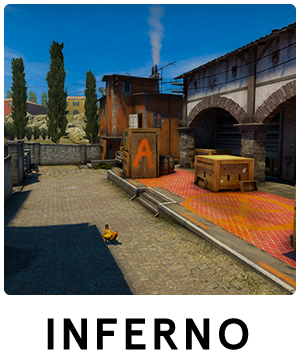
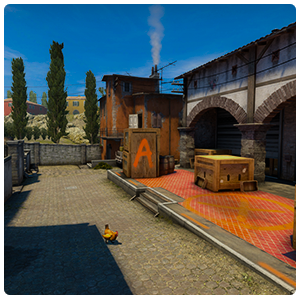
BOOOOOP

diff --git a/Homepage/home.css b/Homepage/home.css
@@ -8,10 +8,13 @@ main{
     height: 100%;
     margin-left: auto;
     margin-right: auto;
+    display: flex;
+    flex-direction: column;
+    align-items: center;
 }
 .container-upper{
     width: 100%;
-    height: 47%;
+    height: 42%;
 }
 
 .container-upper p{
@@ -43,7 +46,7 @@ main{
 .bread-text-right{
     position: absolute;
     left: 67%;
-    top: 34%;
+    top: 30%;
     right: 0;
 }
 .container-center{
@@ -52,32 +55,44 @@ main{
     
 }
 .container-bottom{
-    width: 100vw;
-    height: 42%;
+    width: 95vw;
+    height: 44%;
 }
-.parent {
+.parent{
+    margin-top: 1%;
     display: grid;
     grid-template-columns: repeat(4, 1fr);
     grid-template-rows: repeat(2, 1fr);
     grid-column-gap: 0px;
     grid-row-gap: 0px;
     height: 100%;
+    width: 100%;
 }
     
-.gridDiv1 {
+.gridDiv1{
     grid-area: 1 / 4 / 3 / 5;
-    background-color: #af3336;
 }
-.gridDiv2 {
+.gridDiv2{
     grid-area: 1 / 3 / 3 / 4;
     
 }
-.gridDiv3 {
+.gridDiv3{
     grid-area: 1 / 2 / 3 / 3;
 }
-.gridDiv4 {
+.gridDiv4{
     grid-area: 1 / 1 / 3 / 2;
-    background-color: #af3336;
-
+}
+.grid-item{
+    display: flex;
+    align-items: center;
+    flex-direction: column;
+    gap: 10px;
+}
+.map-text{
+    color: #363930;
+    font-size: 37px;
+    font-weight: 800;
+    font-family: 'Apercu Pro', sans-serif;
+    letter-spacing: 2px;
 }
     

diff --git a/Homepage/index.html b/Homepage/index.html
@@ -47,10 +47,22 @@
         </div>
         <div class="container-bottom">
             <div class="parent">
-                <div class="gridDiv1"> </div>
-                <div class="gridDiv2"> </div>
-                <div class="gridDiv3"> </div>
-                <div class="gridDiv4"> </div>
+                <div class="gridDiv1 grid-item">
+                    <img src="/Homepage/images/NUKE.png" alt="">
+                    <p class="map-text">NUKE</p>
+                </div>
+                <div class="gridDiv2 grid-item">
+                    <img src="/Homepage/images/MIRAGE.png" alt="">
+                    <p class="map-text">MIRAGE</p>
+                </div>
+                <div class="gridDiv3 grid-item">
+                    <img src="/Homepage/images/INFERNO.png" alt="">
+                    <p class="map-text">INFERNO</p>
+                </div>
+                <div class="gridDiv4 grid-item">
+                    <img src="/Homepage/images/VERTIGO.png" alt="">
+                    <p class="map-text">VERTIGO</p>
+                </div>
             </div> 
         </div>
     </main>
